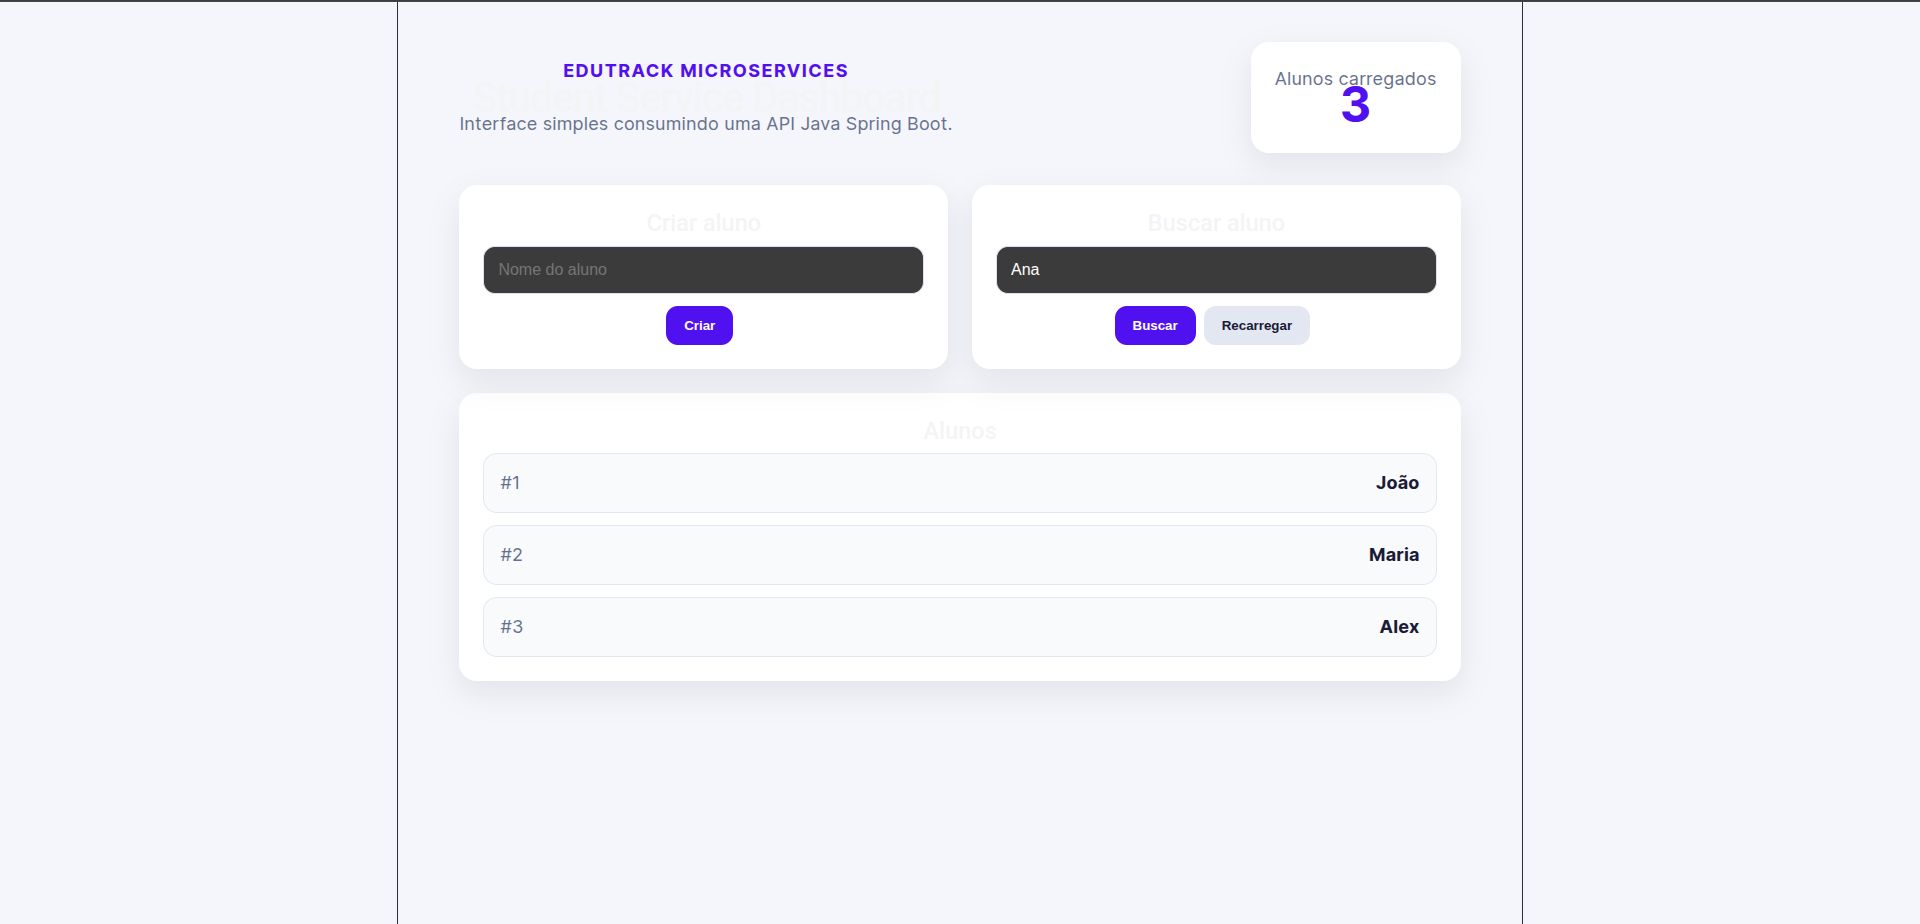
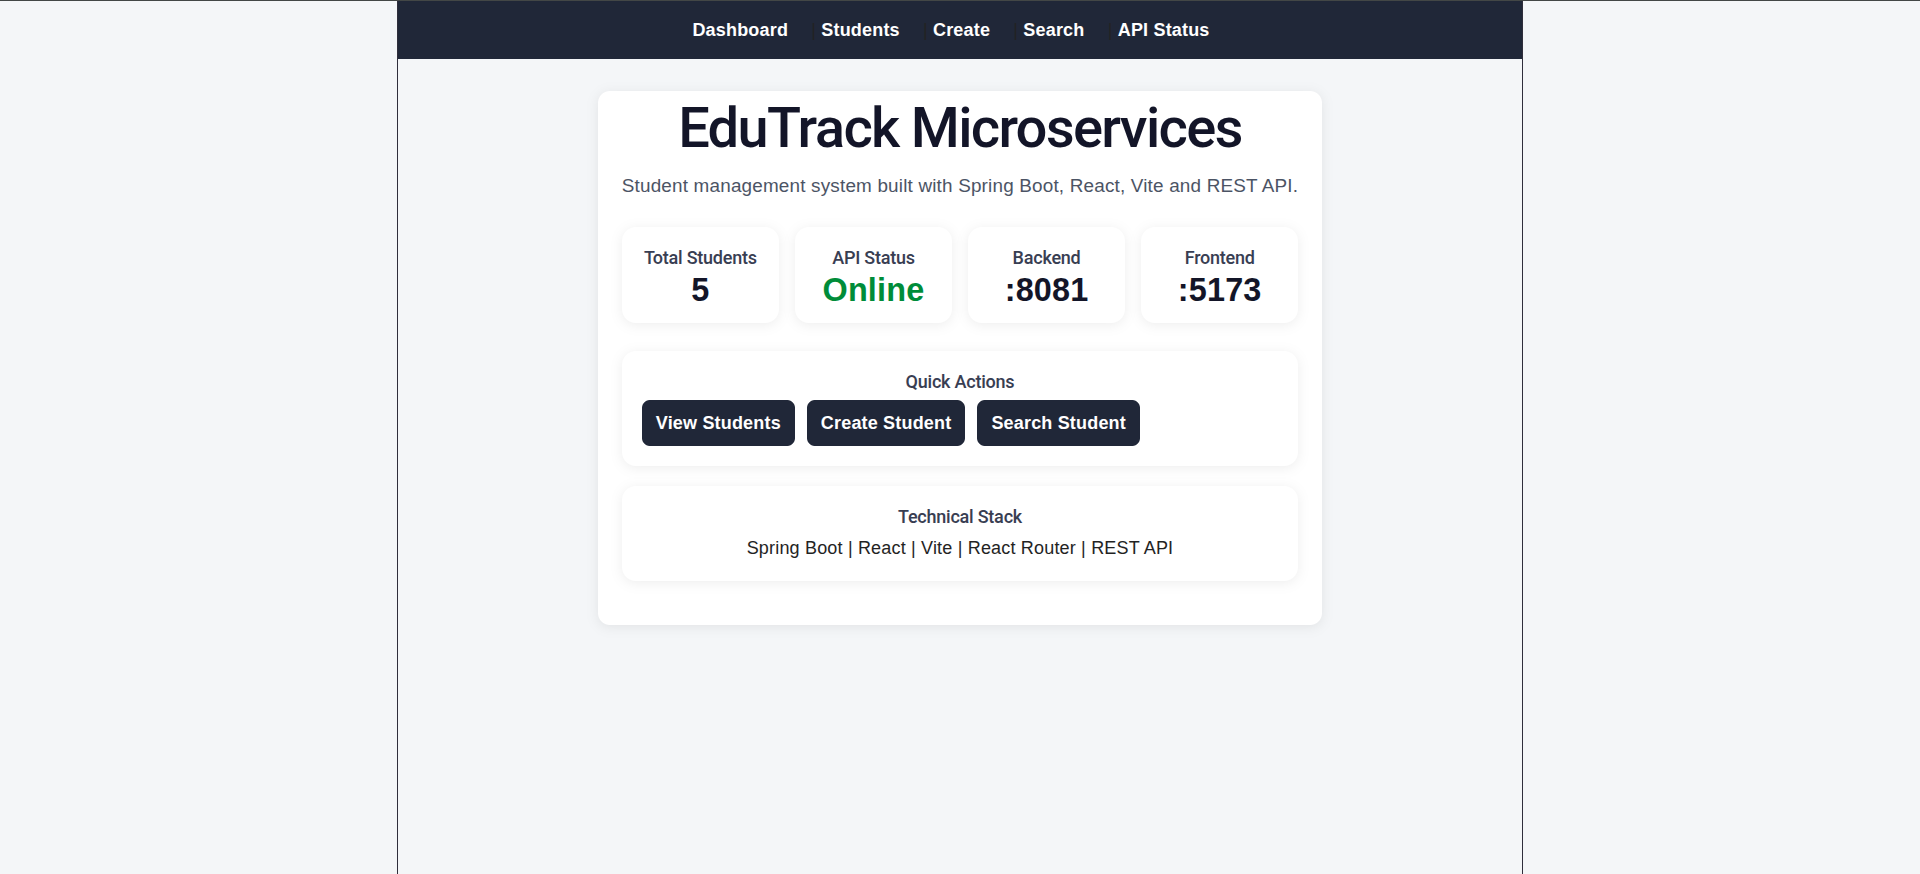
docs: update README and update screenshot

diff --git a/README.md b/README.md
@@ -54,6 +54,7 @@ The main goal is to build an incremental application that can be clearly explain
 - Vite
 - JavaScript
 - Fetch API
+- React Router
 
 ### Database
 
@@ -127,8 +128,8 @@ At this stage, `student-service` and the frontend contain application code. The 
 The project currently includes:
 
 - A functional `student-service`
-- An initial integrated frontend
-- Basic REST endpoints
+- A routed frontend integrated with `student-service`
+- Student CRUD endpoints
 - Input validation
 - Global validation error handling
 - Basic unit tests
@@ -155,16 +156,20 @@ The project currently includes:
 - PostgreSQL persistence
 - Repository layer with Spring Data JPA
 - Queries with Spring Data query methods
+- Extended student profile with registration, academic, and guardian data
+- Full student data mapping for create and update requests
+- Student deletion endpoint
 
 ## Frontend
 
-- Initial dashboard
-- Student listing
-- Student registration
-- Search by name
+- Dashboard with total student count and API availability status
+- Navigation with React Router
+- Student listing in a table
+- Student details page
+- Dedicated search-by-name page
 - Spring Boot API integration
-- List reload
-- Basic validation error handling
+- Basic API error handling
+- Scaffold pages for student creation and API status
 
 ---
 
@@ -250,7 +255,16 @@ POST /students
 
 ```json
 {
-  "name": "Carlos"
+  "name": "Carlos",
+  "cpf": "12345678900",
+  "registration": "2026-001",
+  "grade": "8th Grade",
+  "classGroup": "A",
+  "shift": "Morning",
+  "status": "Active",
+  "guardianName": "Maria Silva",
+  "averageScore": 8.7,
+  "attendanceRate": 96.5
 }
 ```
 
@@ -259,7 +273,16 @@ POST /students
 ```json
 {
   "id": 3,
-  "name": "Carlos"
+  "name": "Carlos",
+  "cpf": "12345678900",
+  "registration": "2026-001",
+  "grade": "8th Grade",
+  "classGroup": "A",
+  "shift": "Morning",
+  "status": "Active",
+  "guardianName": "Maria Silva",
+  "averageScore": 8.7,
+  "attendanceRate": 96.5
 }
 ```
 
@@ -273,7 +296,16 @@ PUT /students/{id}
 
 ```json
 {
-  "name": "Carla"
+  "name": "Carla",
+  "cpf": "12345678900",
+  "registration": "2026-001",
+  "grade": "8th Grade",
+  "classGroup": "A",
+  "shift": "Morning",
+  "status": "Active",
+  "guardianName": "Maria Silva",
+  "averageScore": 9.1,
+  "attendanceRate": 97.0
 }
 ```
 
@@ -282,8 +314,23 @@ PUT /students/{id}
 ```json
 {
   "id": 3,
-  "name": "Carla"
+  "name": "Carla",
+  "cpf": "12345678900",
+  "registration": "2026-001",
+  "grade": "8th Grade",
+  "classGroup": "A",
+  "shift": "Morning",
+  "status": "Active",
+  "guardianName": "Maria Silva",
+  "averageScore": 9.1,
+  "attendanceRate": 97.0
 }
+```
+
+## Delete Student
+
+```http
+DELETE /students/{id}
 ```
 
 ---
@@ -324,7 +371,7 @@ Global validation error handling is implemented with:
 - `@ExceptionHandler`
 - `MethodArgumentNotValidException`
 
-Resource-not-found handling is planned for Sprint 3.
+Missing students requested through `GET /students/{id}` or `PUT /students/{id}` return an HTTP `404 Not Found` response.
 
 ---
 
@@ -334,12 +381,14 @@ The project includes an initial React + Vite frontend that visually demonstrates
 
 ## Frontend Features
 
-- Student listing
-- Student registration
-- Search by name
-- List reload
+- Dashboard with student count and API availability status
+- Navigation with React Router
+- Student listing in a table
+- Student details page
+- Dedicated search-by-name page
 - Spring Boot API integration
-- Basic validation error handling
+- Basic API error handling
+- Scaffold pages for student creation and API status
 
 ---
 
@@ -368,6 +417,7 @@ The project already demonstrates:
 - Unit testing with JUnit and Mockito
 - Frontend and backend integration
 - React consuming a Java API
+- Client-side routing with React Router
 - JPA entity mapping
 - Repository pattern
 - Spring Data JPA query methods
@@ -428,7 +478,7 @@ cd student-service
 - [x] `GET /students/search?name={name}`
 - [x] `POST /students`
 - [x] `PUT /students/{id}`
-- [ ] `DELETE /students/{id}`
+- [x] `DELETE /students/{id}`
 - [x] 404 Not Found handling
 - [x] Update tests
 - [ ] Delete tests